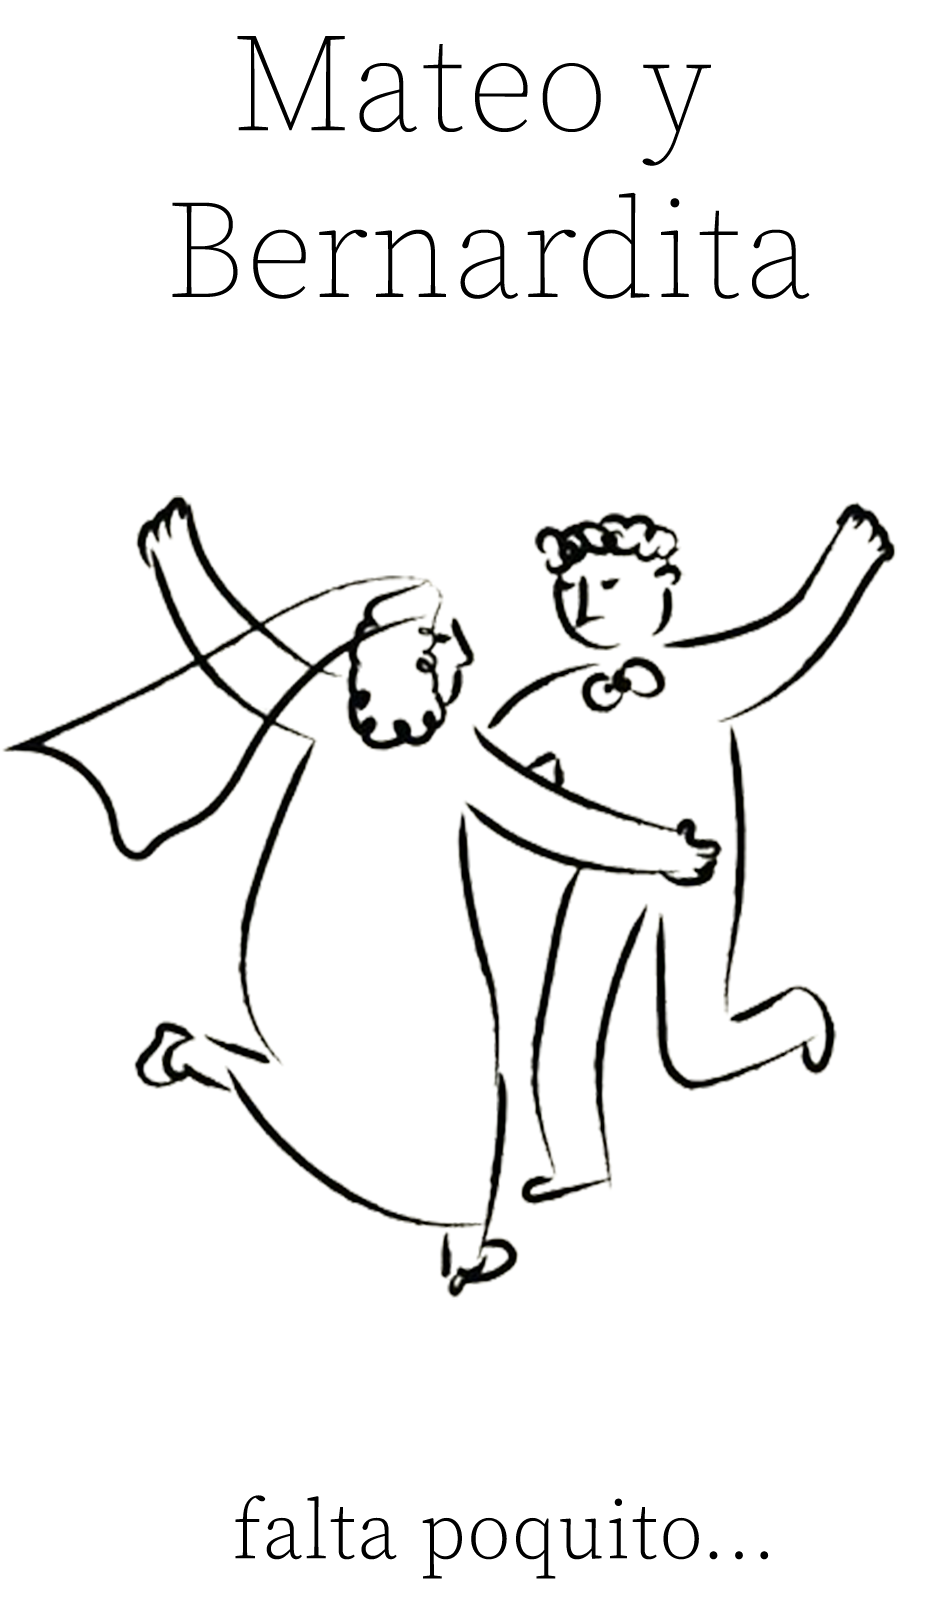
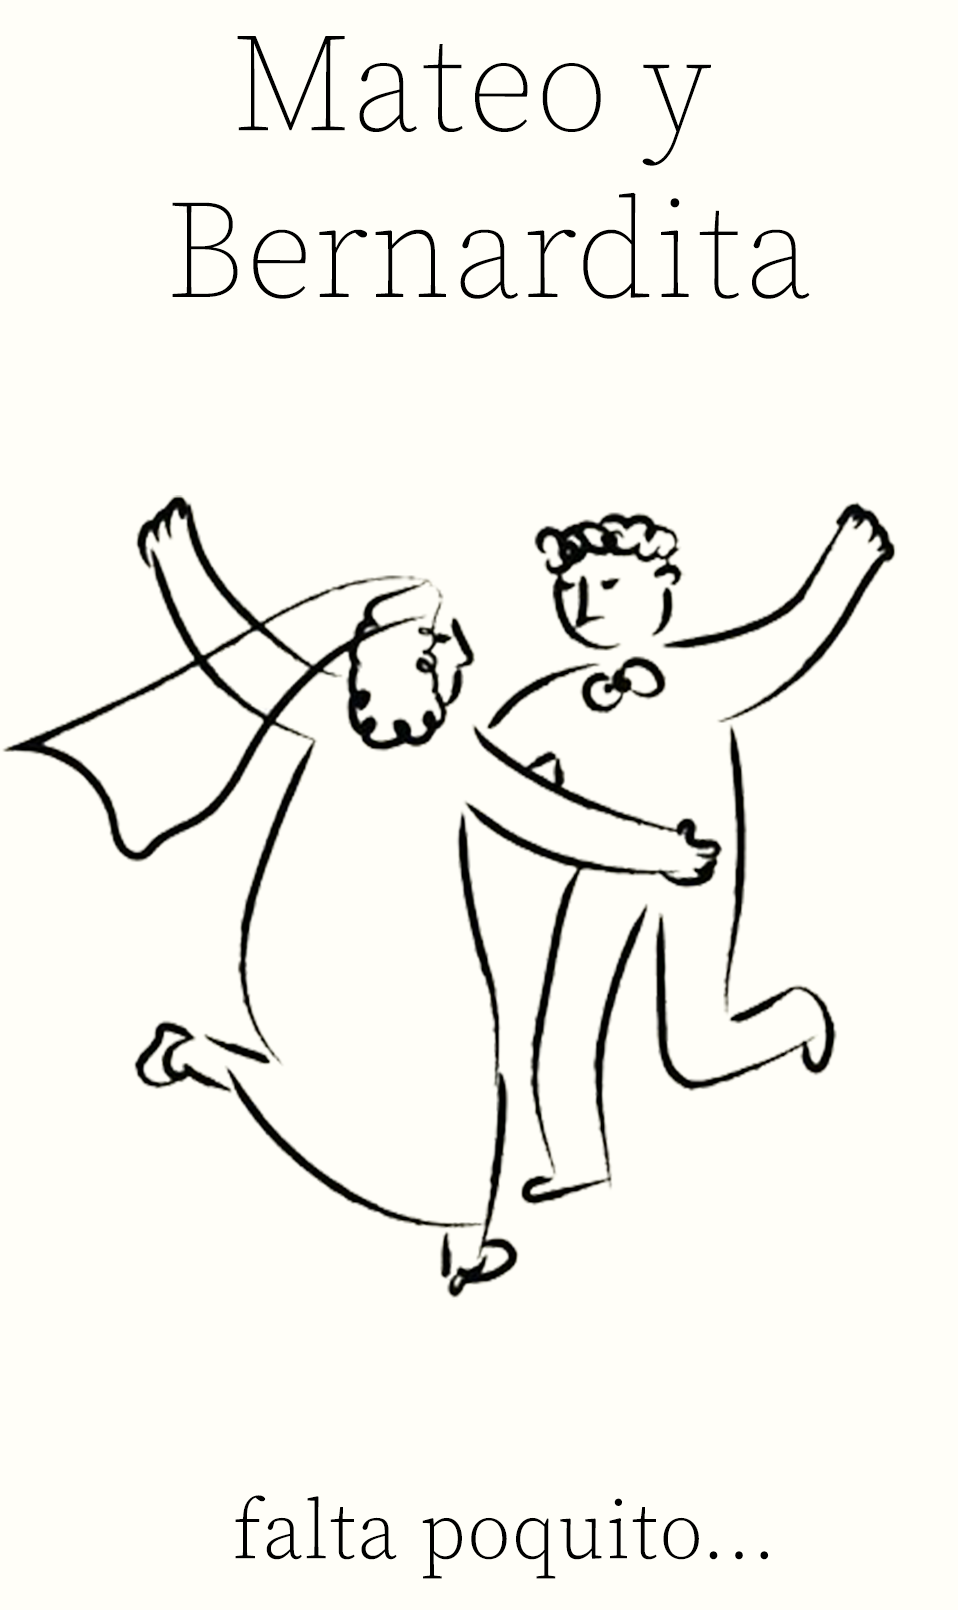
try again

diff --git a/app/layout.tsx b/app/layout.tsx
@@ -8,8 +8,10 @@ export default function RootLayout({
 
       <head>
         <meta property="og:title" content="Bernardita & Mateo" />
-        <meta property="og:description" content="Bernardita & Mateo" />
+        <meta property="og:description" content="Falta poquito..." />
         <meta property="og:image" content="background.png" />
+        <meta property="og:type" content="website" />
+        <meta property="og:url" content="https://www.mateoybernardita.com.ar" />
       </head>
 
       <body>{children}</body>

diff --git a/app/page.tsx b/app/page.tsx
@@ -12,8 +12,8 @@ export default function Page() {
       <img src="/background.gif" alt="background" style={{ 
           maxWidth: '100%', 
           maxHeight: '100%', 
-          objectFit: 'contain', 
-          margin: '20px 0px !important'
+          objectFit: 'cover', 
+          margin: '0px'
         }} />
     </div>
   )
